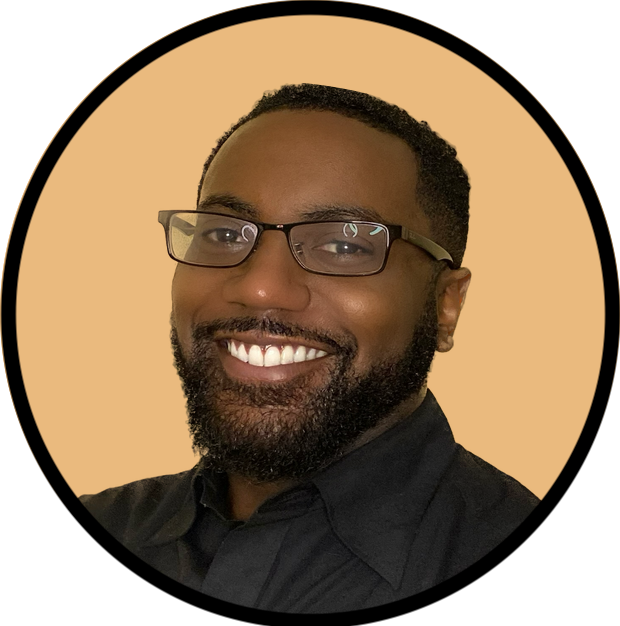
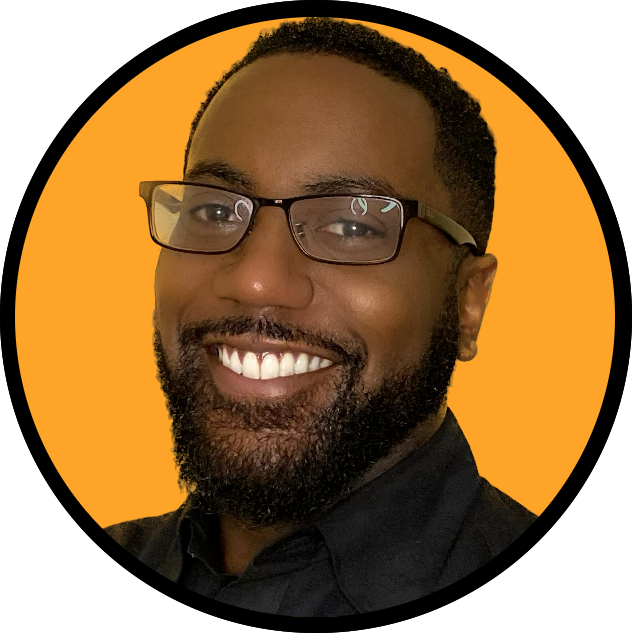
fix: crop screenshots

diff --git a/public/css/styles.css b/public/css/styles.css
@@ -151,7 +151,7 @@ nav a span {
 .sidebar .thumbnail {
   width: 100%;
   max-width: 250px;
-  border: 4px solid #fff;
+  /* border: 4px solid #fff; */
 }
 
 .dev-intro-box {
